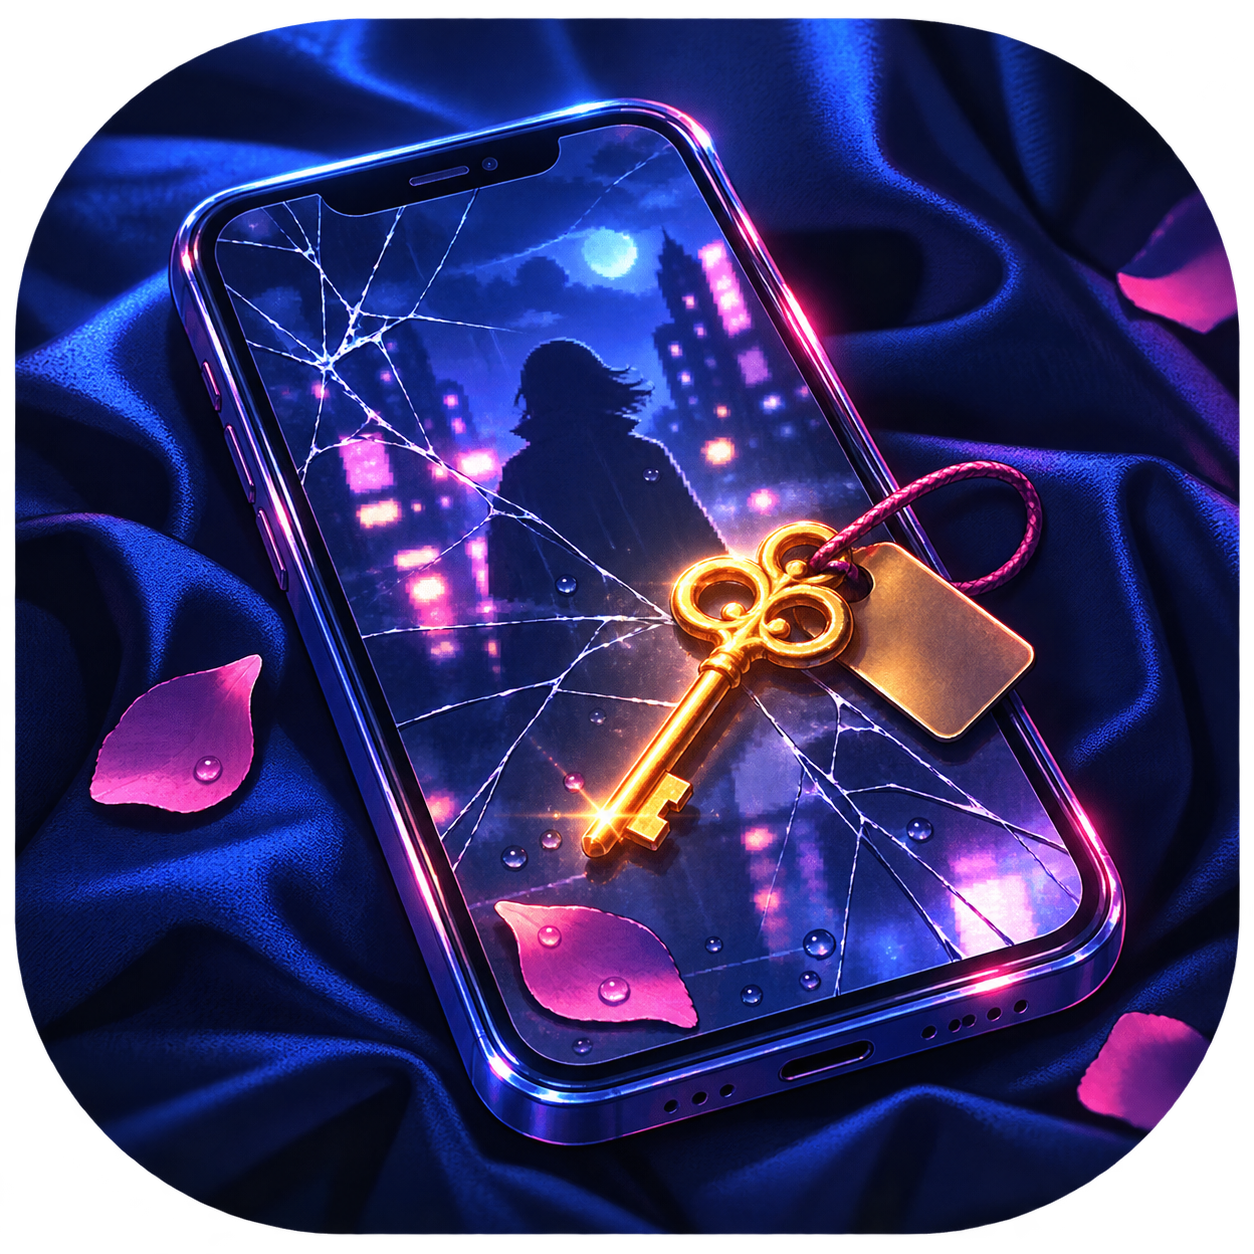
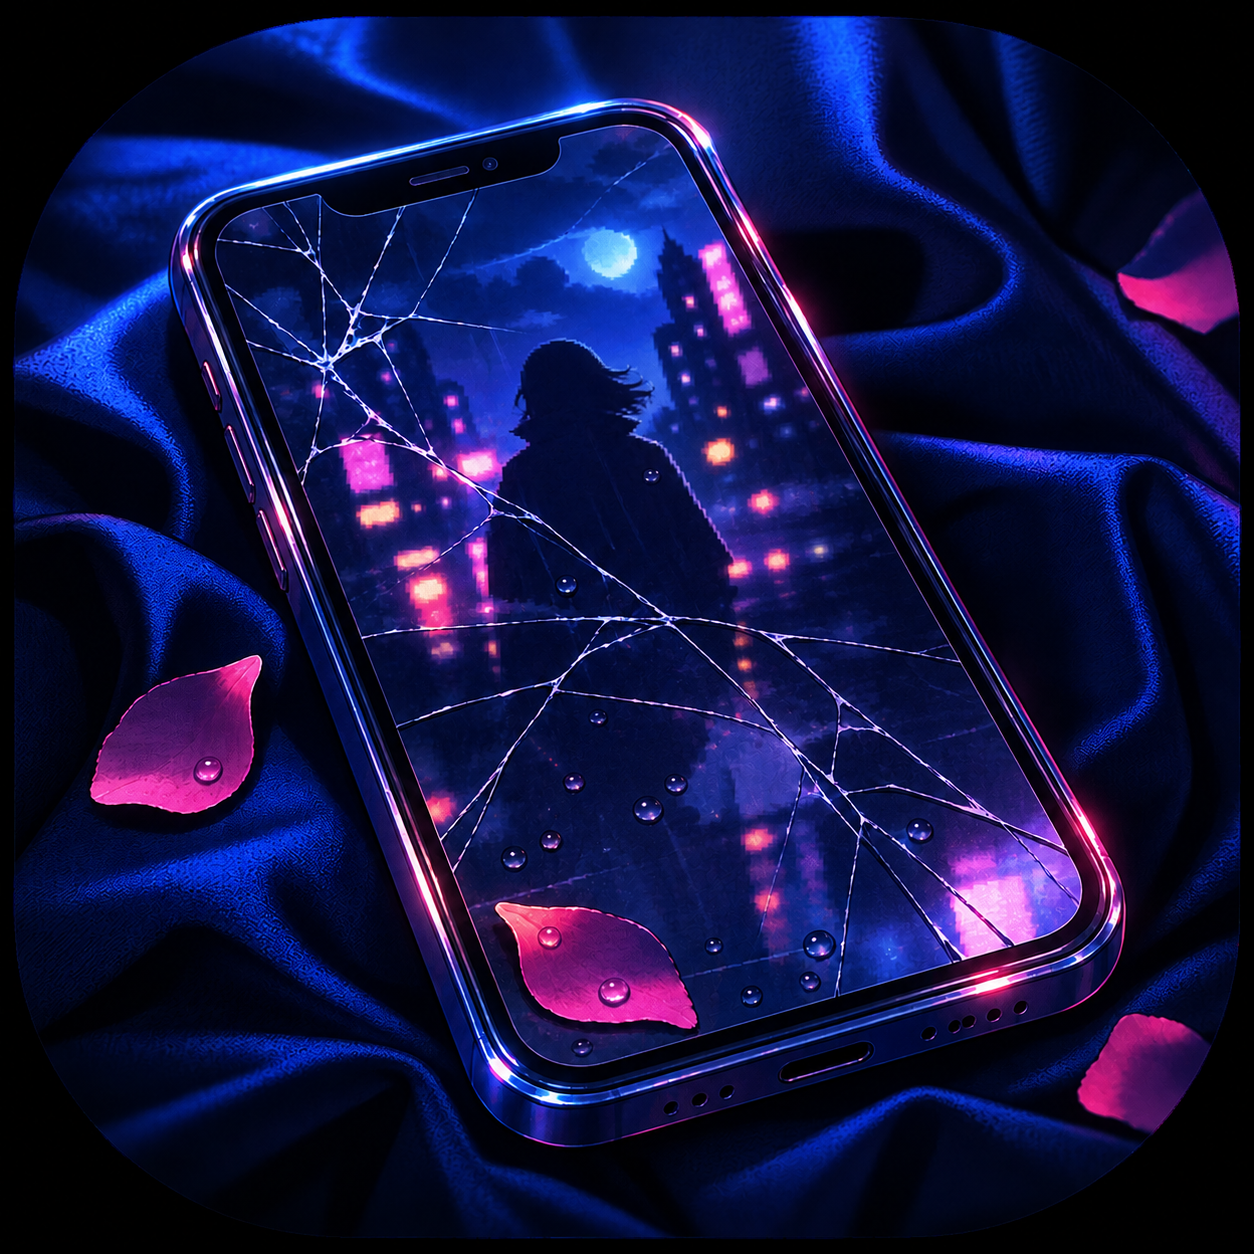
fix: remover chave do icone do jogo

diff --git a/docs/ADR_LOG.md b/docs/ADR_LOG.md
@@ -4,9 +4,10 @@
 
 Status: aceito.
 
-Decisão: usar a arte oficial do jogo em `assets/interfaces/game-icon.png` como
-ícone normal e redondo do launcher, nas densidades legadas e no adaptive icon do
-Android. O fundo do adaptive icon acompanha a paleta escura da arte.
+Decisão: usar a arte oficial do jogo em `assets/interfaces/game-icon.png`, sem a
+chave dourada, como ícone normal e redondo do launcher, nas densidades legadas e
+no adaptive icon do Android. O fundo do adaptive icon acompanha a paleta escura
+da arte.
 
 Consequências: o ícone exibido na tela inicial do Android fica consistente com o
 ícone do jogo, sem alterar o sistema de Save/Load ou a identidade visual interna.
